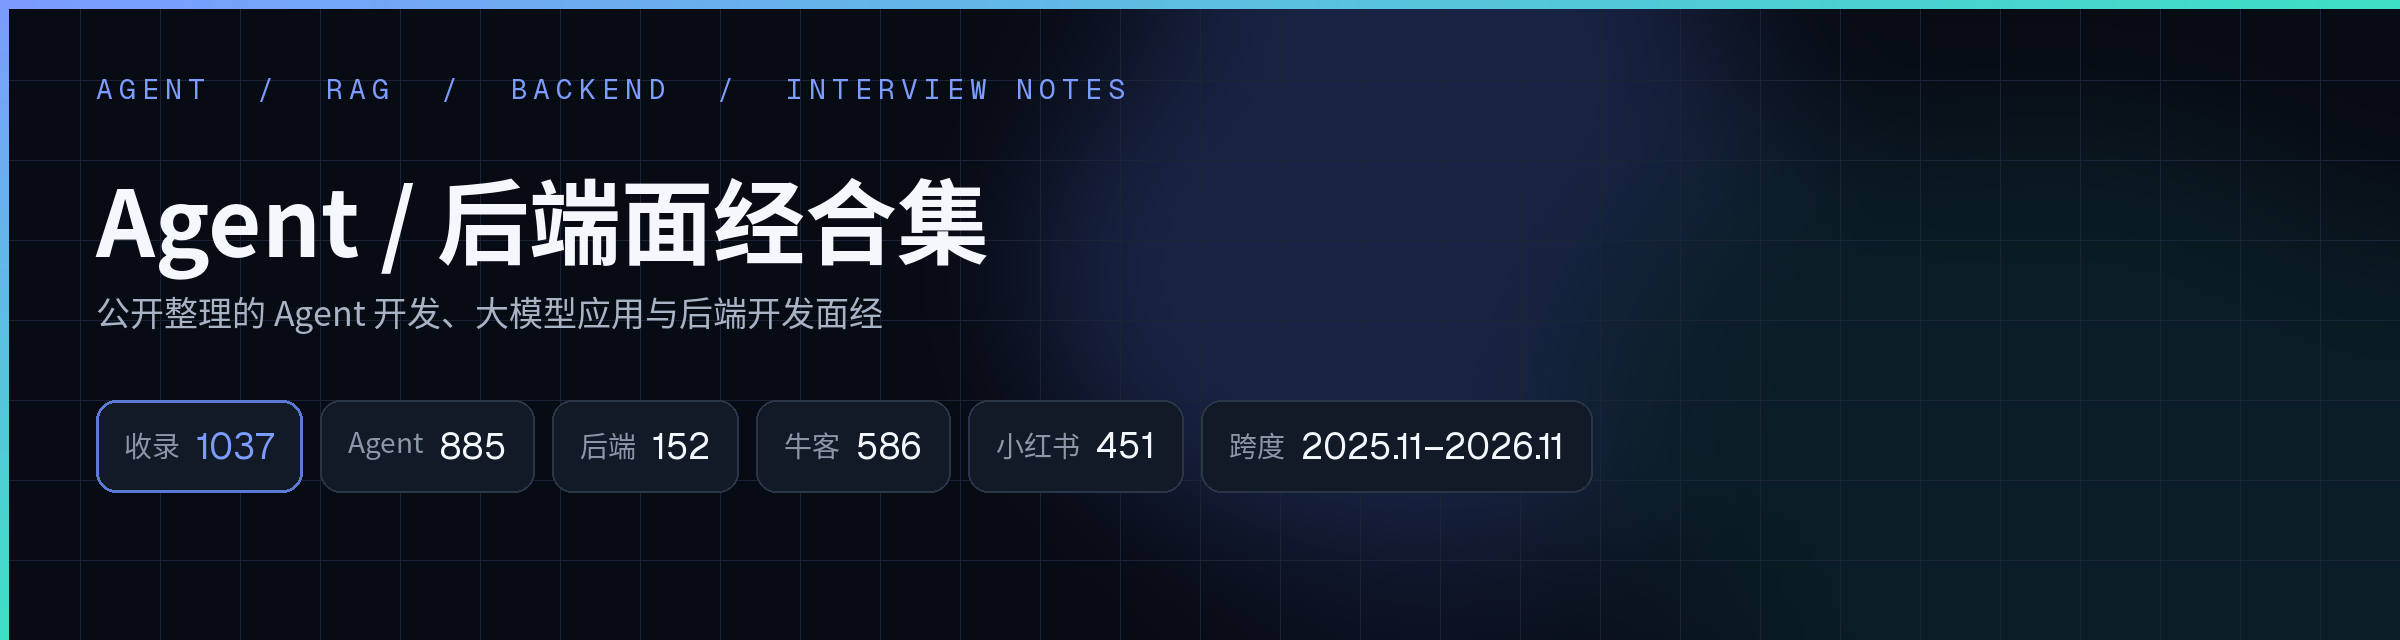
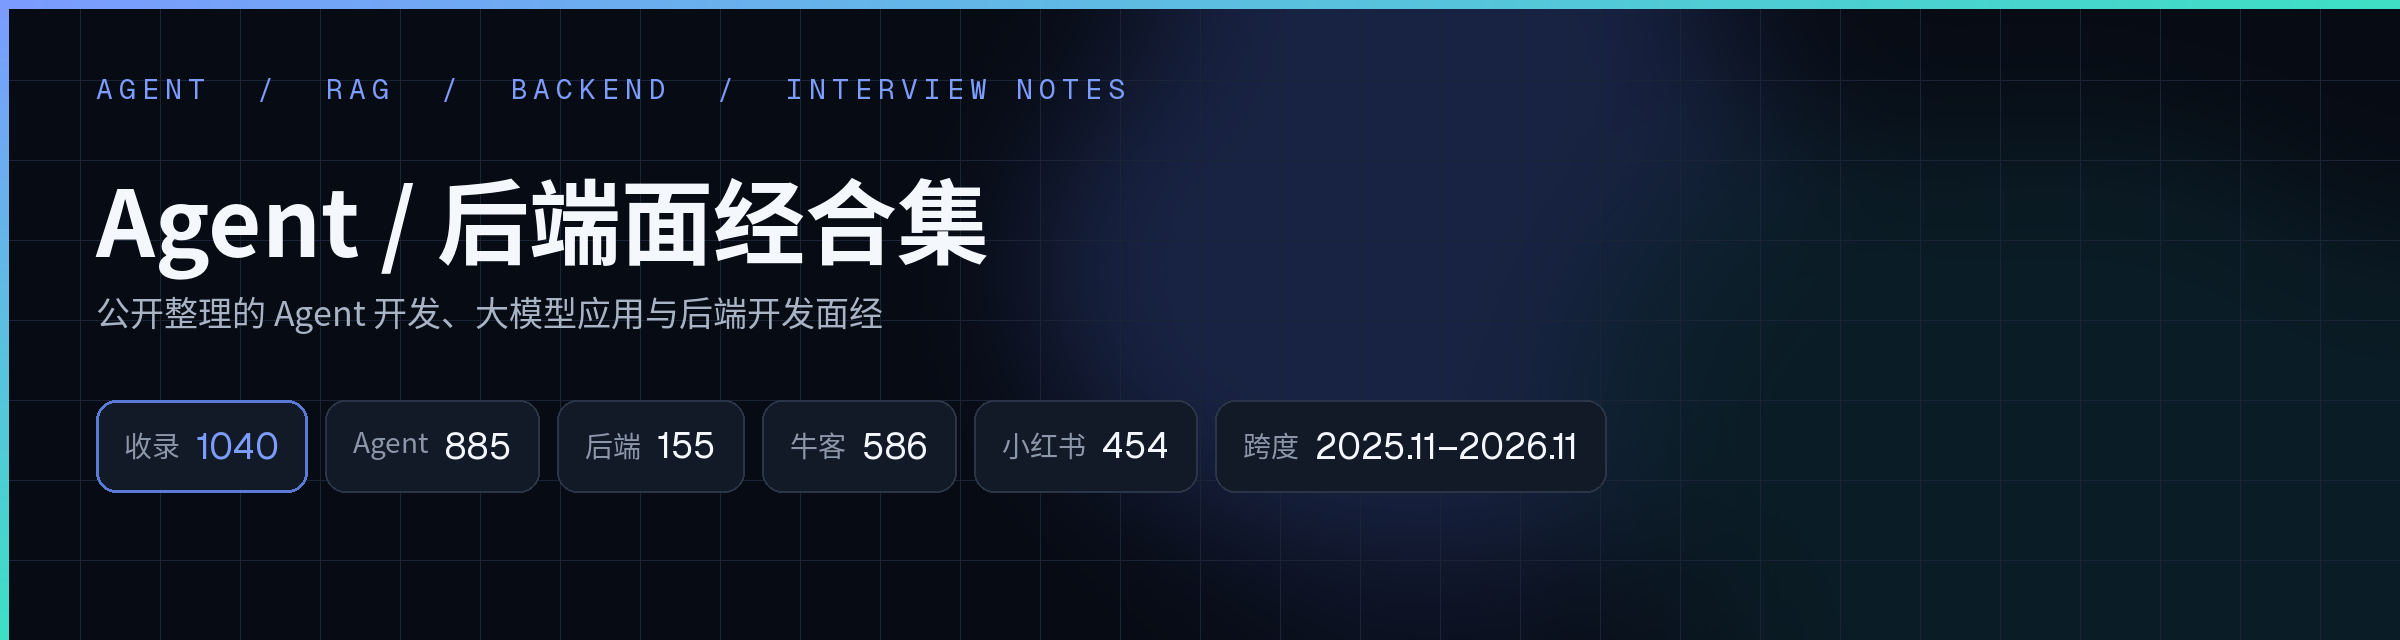
add 3 latest Xiaohongshu interview write-ups from 11-26 and 11-27
Dewu Golang backend internship, ByteDance backend-leaning campus rounds through HR, and Pudding's ByteDance backend daily-internship second round.

Changed region(s): [[0.0938, 0.625, 0.6562, 0.75]]

diff --git a/backend/2026-11-27-字节跳动-偏后端-校招-一面二面三面四面HR.md b/backend/2026-11-27-字节跳动-偏后端-校招-一面二面三面四面HR.md
@@ -1,0 +1,87 @@
+# 字节跳动偏后端校招一面至HR面
+
+> 字节跳动 · 偏后端 · 校招 · 一面二面三面四面HR面 · 面试结束后无 OC、无意向，纯等待（作者感觉被排序，只能等前面人拒绝后才有机会） · 详情页显示「4小时前 天津」，报告按当天 2026-11-27 换算为 2026-11-27，这是相对日期换算，不是详情页上的月日原发日期，也不是面试日期；记为 2026-11-27，落在当前继续搜集的窗口（用户要求继续找面经，本批收到 2026-11-27） · 作者 三两半 · 来源：[小红书](https://www.xiaohongshu.com/explore/6b090cd0000000002b032764)
+
+原帖标题按搜集报告为字节（偏后端）面经。公司按标题记为字节跳动。岗位按报告记为偏后端（校招），归入 backend/，不把岗位改成算法或 Agent，也不补全未见的岗位全称。一面、二面、三面、四面、HR 面写在同一原帖里，按多轮分节整理，不拆文件，也不与仓库中其他字节篇合并。结果按报告为面试结束后无 OC、无意向，纯等待；作者感觉被排序，只能等前面人拒绝后才有机会。发帖日按页面「4小时前 天津」、报告当天 2026-11-27 换算为 2026-11-27，已如实标明是换算结果。报告写题在配图（共 10 张，封面 + 时间线 + 各轮题目），已逐张右划放大读完，全文，非局部。
+
+时间线按报告记录，日期未标年份，不另推年份：9.14 捞，9.22 一面，9.29 二面，10.20 三面，10.26 四面；中间发现官网岗位下线，11.10 还在等待，11.13 询问告知四面通过并约 HR 面，11.16 HR 面。T+0 捞，T+8 一面，T+15 二面，T+36 三面，T+42 四面，T+62 HR 面。被捞：电话沟通、询问意向，本着能多面就面的原则约了面。
+
+## 速览
+
+- **重点**：字节跳动偏后端校招一面、二面、三面、四面、HR 面。岗位按报告记为偏后端，归入 backend/。下面只整理搜集报告里已经可见的题意摘要，不是逐字原文，也不补答案。一面、二面主要拷打大规模强化学习分布式训练框架、Ray、vLLM 和微调，并有手撕。三面继续问资源利用率和 Agentic RL，四面问兵器工业实习项目，HR 面以聊天和 Offer、HC 安排为主。结果按报告为面试结束后无 OC、无意向，纯等待。
+- **难度**：字节跳动偏后端校招。发帖日期依据：详情页显示「4小时前 天津」，报告按当天 2026-11-27 换算为 2026-11-27，这是相对日期换算，不是详情页上的月日原发日期，也不是面试日期。各轮面试日期按报告时间线记录，未标年份，不另推年份。
+- **题量**：仅按报告可见摘要整理，不把未见细节补成题目，也不声称全题已核。
+
+## 面经正文
+
+以下只整理搜集报告中已经看到的题意，不是逐字原文，也不补答案或手撕解法。一面、二面、三面、四面、HR 面同帖，不拆文件。各轮面试日期按报告时间线记录，未标年份，不另推年份。
+
+### 一面
+
+报告写约 50 分钟。时间线写 9.22 一面，未标年份，不另推年份。
+
+1. 自我介绍。
+2. 在大规模强化学习分布式训练框架这个项目当中，然后你主要参与的是哪一块？然后具体你在整个落地当中遇到哪些比较有挑战的一些点，然后你是怎么做一些取舍，然后做一些设计去就是把它给 fix 掉。
+3. 什么是强化学习嘛？然后里面有哪些比较关键的一些知识点？然后甚有哪些现在主流的一些强化学习的方案？（原文「甚有」）
+4. 刚看到你好像有说一些那个 Ray 里面有个叫资源调度改造，是吧？那一块怎么做的？
+5. RAY 本身计算服务框架有了解吗？就是能给我简单介绍一下。
+6. 项目里用了，比如说你说的 vLLM 池化，还有 KV CACHE 复用这两块，你也能给我简单说一下你是怎么实现的吗？
+7. 简要说一下那个大模型微调的项目。
+8. 介绍 lora 微调的原理。
+9. 手撕：反转链表 2，需要自己构造用例测试。只保留题意，不补解法。
+
+### 二面
+
+报告写约 60 分钟。时间线写 9.29 二面，未标年份，不另推年份。
+
+1. 自我介绍。
+2. RL 分布式训练框架设计。先从整个训练框架设计和优化，第一部分先讲一下整个框架的架构设计部分；第二点讲核心围绕的哪些重点方向去做的优化；第三个讲一下优化的效果，围绕这三个部分重点展开一下。
+3. 你是基于 Ray 做的，请你从架构设计上讲一下分为几层，每一层的作用是什么；另外一点就是按照这几层设计之后，整个链路和流程在你这个框架内部它是什么样子的。
+4. 训练框架或者说这个算法框架你用的是什么。
+5. 底下肯定是有依赖于一些大模型的算法框架或者算法参数的一些这个更新，对吧？你那个部分是用的什么做的？
+6. 简单介绍一下你对 rl lib 和 pytorch 的理解。
+7. vLLM 在你这里是怎么使用的。
+8. 集群整体算力综合利用率提升是怎么得到的。
+9. 支持多个异构智能体的并行训练怎么理解。
+10. 吞吐提升这么大主要原因是什么。
+11. 手撕：字符串全排列，类似 leetcode46 全排列。只保留题意，不补解法。
+
+### 三面
+
+报告写约 30 分钟。时间线写 10.20 三面，未标年份，不另推年份。
+
+1. 自我介绍。
+2. RL 分布式训练框架项目里面有哪些你觉得有挑战点？
+3. 项目中的资源利用率，是怎么去解决？弹性扩缩容机制是怎么实现的？利用率有时候高峰的时候就全部占满了，这个怎么解决？
+4. 是否有潮汐调度。
+5. 是否有尝试过用这种 Agentic RL 的方式去自训练。
+6. 大模型微调项目中的评测这部分是怎么做的。
+7. Agentic RL 和 RSI 有什么区别。
+8. 传统的机器学习的一些技能能用 MLOps 这种方式去运作吗。
+9. 传统的机器学习模型能用 AGENTIC 吗。
+10. 说一下你觉得 Agentic ML 和 Agentic RL 这两块在数据处理上有什么区别？
+11. 毕业论文进展。
+
+### 四面
+
+报告写约 25 分钟。时间线写 10.26 四面，未标年份，不另推年份。
+
+1. 自我介绍。
+2. 介绍一下兵器工业实习的项目。报告未还原项目名，这里不补。
+3. 讲一下这个场景是怎么回事。
+4. 场景的判断的逻辑主要是什么？
+5. 针对图像信息，你在算法上需要做什么优化来去提升它的这个定位的效果呢？
+6. 不同的无人单元，它的作用是对等的吗？
+7. 怎么来综合评判就这个算法结果的指标在向好。
+8. 那你做的那些事情里面，就是你觉得有哪些是对最终的这个业务指标帮助呃相对比较大的？
+9. 强化学习训练框架的体系监控。
+10. 毕业论文写怎么样了。
+
+### HR面
+
+报告写约 30 分钟，没有自我介绍。时间线写 11.16 HR 面，未标年份，不另推年份。
+
+1. 全程基本聊天，中间穿插会问说为什么选择这个公司实习，有没有团队协作的经历，手上有没有其他 offer，这里问的比较详细，都是什么行业的，为什么更想来字节，不选择其他公司。
+2. 后面介绍了一下岗位内容，说是要从 0 到 1 实现的一个部分。
+3. 说了下为什么从四面结束到现在这么久，说是因为部门在盘点 hc 说校招进来的同学都分别负责什么部分，进行分工安排，说这次面试完后跟业务确定是否继续推进，以及等后续薪资方案出来后直接发 offer，不会发意向了。
+4. 加了 hr 的微信，而且前后 hr 都有面谈。

diff --git a/backend/2026-11-26-字节跳动-后端开发-日常实习-二面.md b/backend/2026-11-26-字节跳动-后端开发-日常实习-二面.md
@@ -1,0 +1,32 @@
+# 字节跳动后端日常实习二面
+
+> 字节跳动 · 后端开发 · 日常实习 · 二面 · 作者置顶评论「应该是挂了，手撕没写出来，前面也没回答好」 · 详情页显示「昨天 16:11 浙江」，报告按当天 2026-11-27 换算为 2026-11-26，这是相对日期换算，不是详情页上的月日原发日期，也不是面试日期；记为 2026-11-26，落在当前继续搜集的窗口（用户要求继续找面经，本批收到 2026-11-27） · 作者 布丁不丁 · 来源：[小红书](https://www.xiaohongshu.com/explore/6b07e99e000000002b00472a)
+
+原帖标题按搜集报告为字节跳动后端日常实习二面。公司按标题记为字节跳动。岗位按报告记为后端日常实习，归入 backend/；题目含 Agent 项目，不把岗位改成 Agent。轮次按标题记为二面。结果按作者置顶评论「应该是挂了，手撕没写出来，前面也没回答好」记录。发帖日按页面「昨天 16:11 浙江」、报告当天 2026-11-27 换算为 2026-11-26，已如实标明是换算结果。正文写面试日 2026.11.26，按作者所写记录，不把面试日当成发帖日。报告写题目在正文，封面无额外题图，全文，非局部。同作者已收一面 6b057c4b，为不同原帖，不合并，也不改已推篇。
+
+## 速览
+
+- **重点**：字节跳动后端日常实习二面。岗位按报告记为后端，归入 backend/。下面只整理搜集报告里已经可见的题意摘要，不是逐字原文，也不补答案。题目可见实习拷打，以及 Harness、Claude Code / Codex / DSH、评测指标、工具错误处理和上线监控，还有手写 HashMap。结果按作者置顶评论，作者认为应该是挂了。不与同作者已收一面或其他字节篇合并。
+- **难度**：字节跳动后端日常实习二面。发帖日期依据：详情页显示「昨天 16:11 浙江」，报告按当天 2026-11-27 换算为 2026-11-26，这是相对日期换算，不是详情页上的月日原发日期，也不是面试日期。正文写面试日 2026.11.26，按作者所写记录。
+- **题量**：仅按报告可见摘要整理，不把未见细节补成题目，也不声称全题已核。
+
+## 面经正文
+
+以下只整理搜集报告中已经看到的题意，不是逐字原文，也不补答案或手撕解法。本帖只见二面这一场，不拆文件，也不与已收一面合并。正文写面试日 2026.11.26，按作者所写记录。
+
+自我介绍。
+
+拷打实习内容（对于我写简历上的个人工作，面试官疯狂拷打「为什么要这样做」，以及「底层代码实习逻辑」）。报告未还原实习项目名，这里不补。
+
+项目方面：
+
+1. 这个项目是有部署上线，还是练手的？
+2. 讲一下项目中 Harness 的设计思路？
+3. 有了解例如 Claude Code、Codex 或者 DSH 的 Harness 框架吗？挑一个最熟悉的介绍一下？
+4. 这个项目最终的评测指标是怎么样的？有没有进行过优化？怎么优化的？
+5. Agent 调用工具的时候，发生了错误怎么办？
+6. 如果将 Agent 系统正式上线，如何设计监控和评估体系？关注哪些指标？
+
+手撕：手写 HashMap，实现 put、remove 核心方法。只保留题意，不补解法。
+
+反问：评价面试表现；反问「如果将 Agent 系统正式上线，如何设计监控和评估体系？关注哪些指标？」

diff --git a/backend/2026-11-27-得物-golang后端-实习-一面.md b/backend/2026-11-27-得物-golang后端-实习-一面.md
@@ -1,0 +1,26 @@
+# 得物golang后端实习一面
+
+> 得物 · golang后端 · 实习 · 一面 · 结果未注明 · 详情页显示「41分钟前 陕西」，报告按当天 2026-11-27 换算为 2026-11-27，这是相对日期换算，不是详情页上的月日原发日期，也不是面试日期；记为 2026-11-27，落在当前继续搜集的窗口（用户要求继续找面经，本批收到 2026-11-27） · 作者 有点文艺 · 来源：[小红书](https://www.xiaohongshu.com/explore/6b0941ef000000002b03c4c3)
+
+原帖标题按搜集报告为得物 golang 后端实习一面。公司按标题记为得物。岗位按报告记为 golang 后端实习，归入 backend/。轮次按标题记为一面。结果未见，不猜测。作者写不痛不痒、心里没底；面试约二十多分钟，面试官未主动询问反问就结束。发帖日按页面「41分钟前 陕西」、报告当天 2026-11-27 换算为 2026-11-27，已如实标明是换算结果。配图亦写 11 月 27 日下午 3:38。报告写题在 1 张手机截图，已放大读完，全文，非局部。报告写全程八股，没问项目。不与仓库中其他得物篇合并。
+
+## 速览
+
+- **重点**：得物 golang 后端实习一面。下面只整理搜集报告里已经可见的题意摘要，不是逐字原文，也不补答案。题目覆盖 Redis 缓存一致性、雪崩穿透击穿、MySQL 索引失效和 B+ 树、慢查询排查、GMP、map 并发安全、sync.Map、消息队列积压，以及对 AI Coding 的看法。结果未见，不猜。
+- **难度**：得物 golang 后端实习一面。发帖日期依据：详情页显示「41分钟前 陕西」，报告按当天 2026-11-27 换算为 2026-11-27，这是相对日期换算，不是详情页上的月日原发日期，也不是面试日期。配图亦写 11 月 27 日下午 3:38。
+- **题量**：仅按报告可见摘要整理，不把未见细节补成题目，也不声称全题已核。
+
+## 面经正文
+
+以下只整理搜集报告中已经看到的题意，不是逐字原文，也不补答案。本帖只见一面这一场，不拆文件。已读材料没有写出单独的面试日期，也没有写明结果。报告写全程八股，没问项目。面试约二十多分钟，面试官未主动询问反问就结束。
+
+1. redis 缓存一致性。
+2. 缓存的雪崩、穿透、击穿，以及解决方案。
+3. MySQL 索引失效的情况。
+4. MySQL 为什么用 B+ 树。
+5. 慢查询怎么排查？如果说索引已经没办法优化了，怎么搞？（作者答了范式式设计）如果说是数据量特别大，怎么查？（作者当时没想起来）
+6. GMP 调度模型。
+7. map 并发安全。
+8. syncmap 底层原理。
+9. 消息队列积压怎么解决？
+10. ai coding 怎么看？你是怎么做的。
